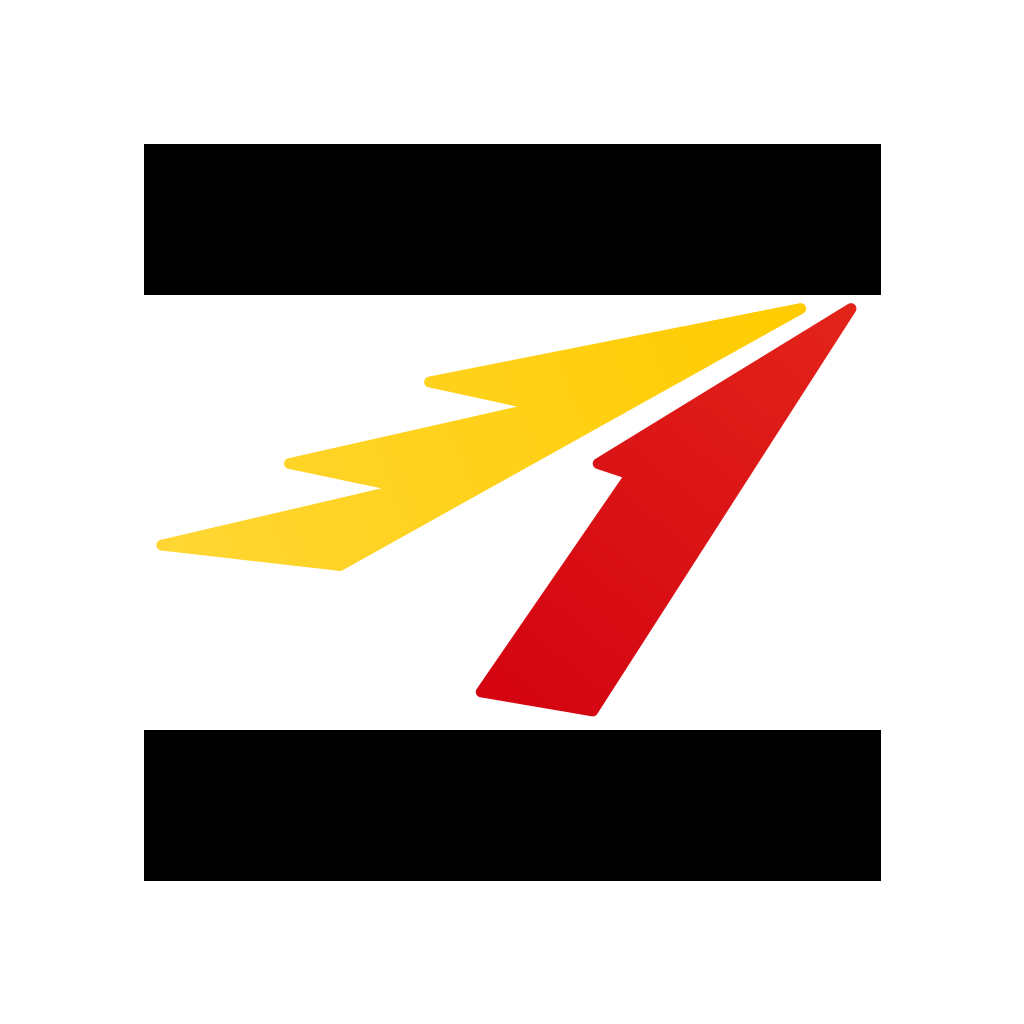
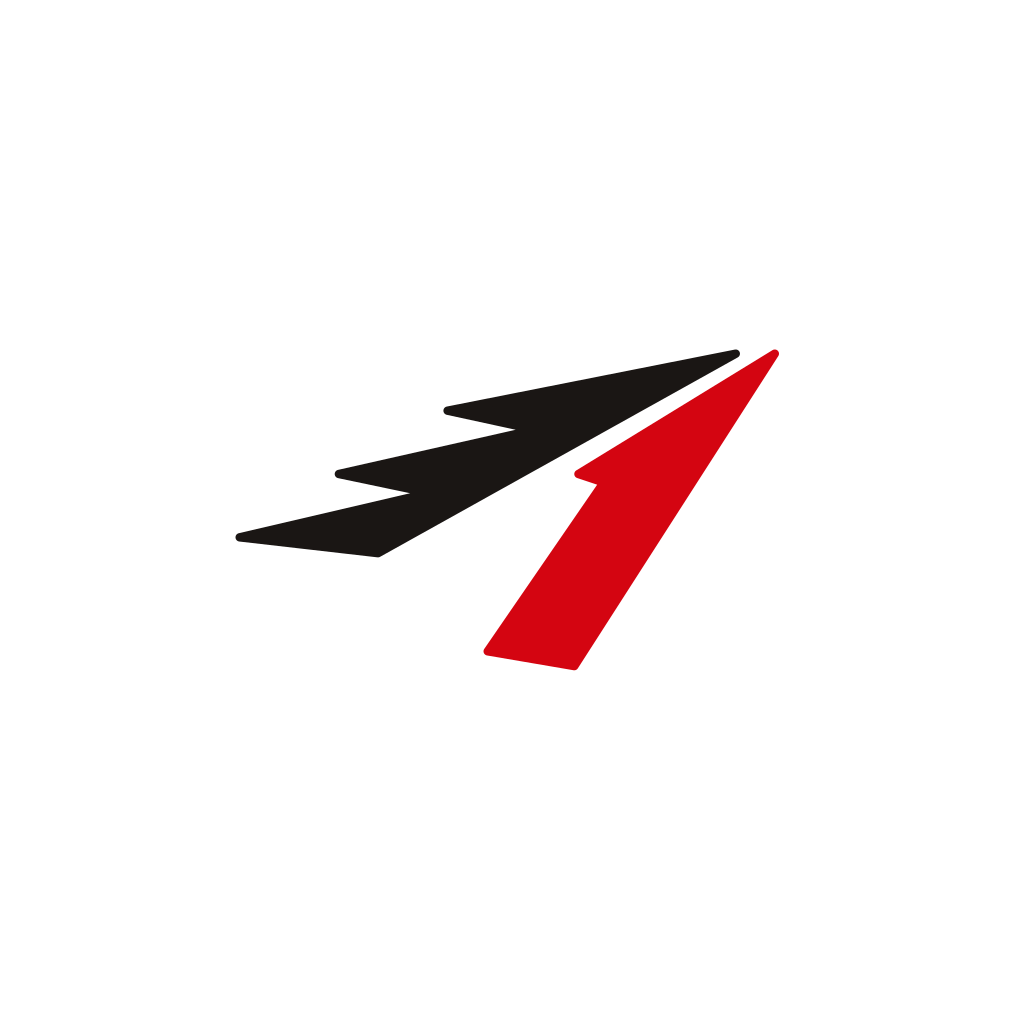
feat(merchant): icone jaune et google-services sur EAS
Icone regeneree en jaune #FFCC00 avec l'aile noire et la lame rouge (l'aile jaune aurait disparu sur fond jaune) : icon.png, foreground/background/monochrome Android et favicon. app.config.js lit desormais GOOGLE_SERVICES_JSON (variable fichier EAS), sans quoi le build echouait sur ../merchant-app/google-services.json. Contient aussi le projectId EAS ajoute dans app.json.

Changed region(s): [[0.125, 0.125, 0.875, 0.875]]

diff --git a/apps/AirMess/app.config.js b/apps/AirMess/app.config.js
@@ -10,6 +10,10 @@ export default ({ config }) => ({
   },
   android: {
     ...config.android,
+    // En build EAS : variable fichier GOOGLE_SERVICES_JSON du projet, matérialisée
+    // sur disque (même mécanique que l'app livreur). En local : app.json.
+    googleServicesFile:
+      process.env.GOOGLE_SERVICES_JSON ?? config.android.googleServicesFile,
     config: {
       ...(config.android?.config ?? {}),
       googleMaps: {
